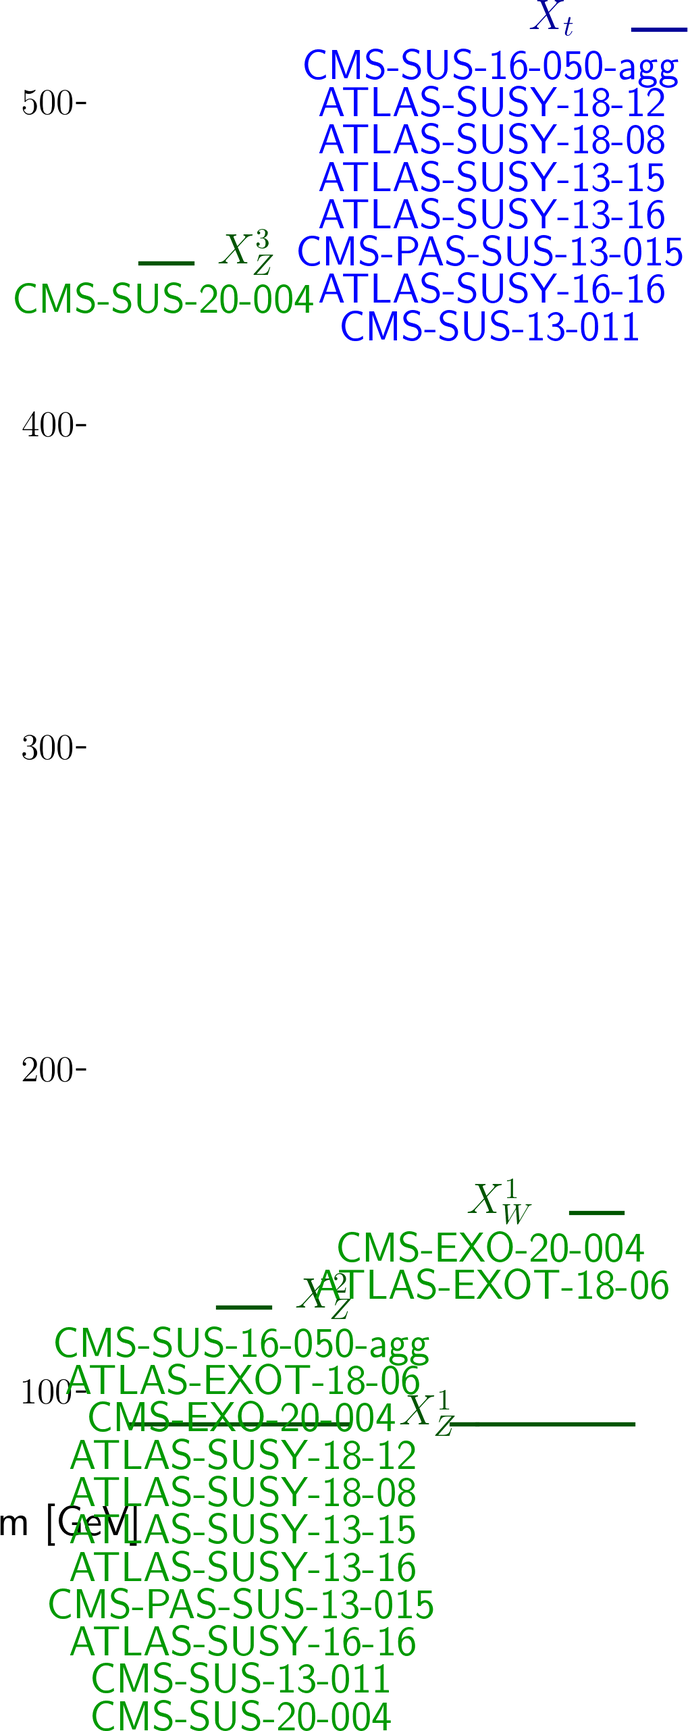
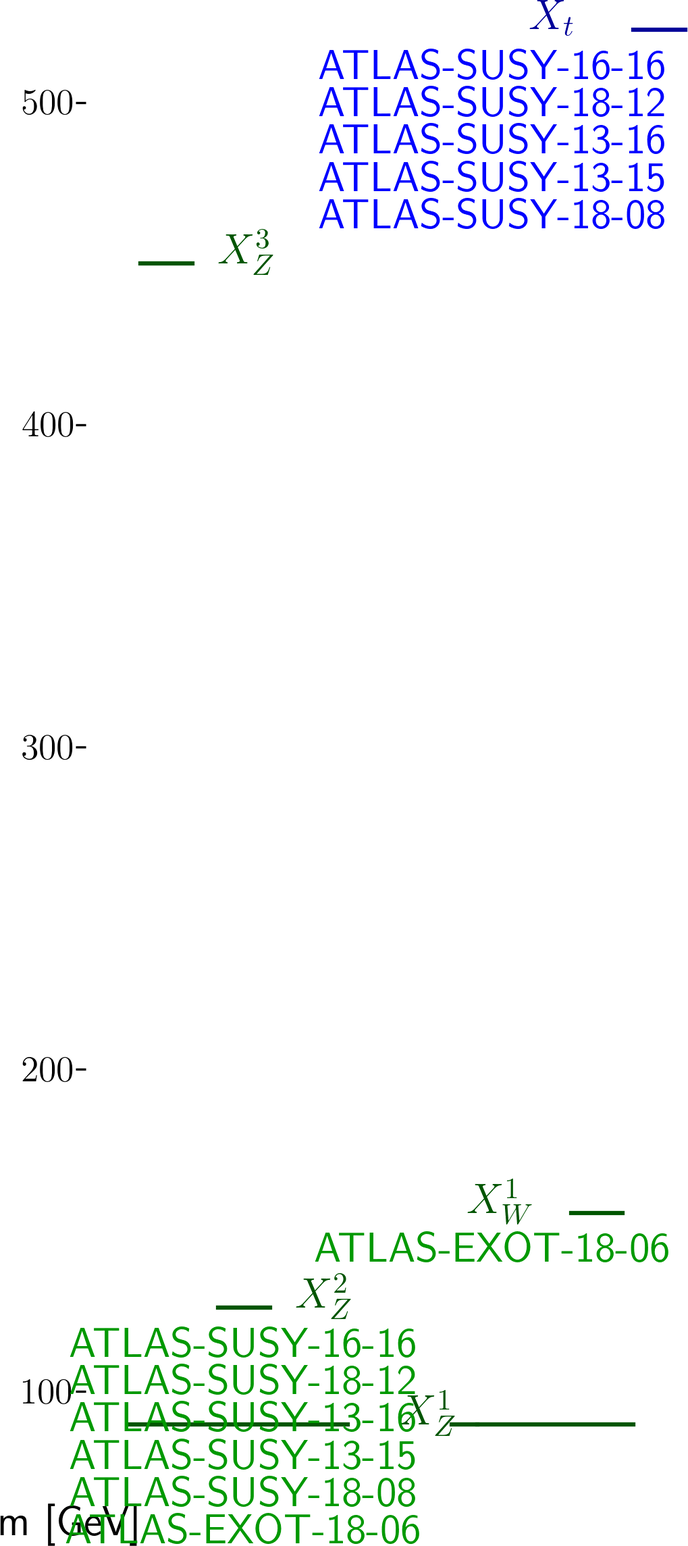
automated update by plotHiscore.py to rundir3atlas_310:     K=None TL=11.80 walkerid=uphi

diff --git a/protomodels/rundir3atlas_310/rawnumbers.html b/protomodels/rundir3atlas_310/rawnumbers.html
@@ -1,44 +1,43 @@
 <table>
 <tr><th>Analysis Name</th><th>Type</th><th>Dataset</th><th>Topos</th><th>Observed</th><th>Expected</th><th>Approx &sigma;</th><th>Particles</th>
 </tr>
-<tr><td><a href=http://cms-results.web.cern.ch/cms-results/public-results/publications/EXO-20-004/>CMS-EXO-20-004</a></td><td>comb</td> <td>-</td><td>TChiISR, TChiZISRqq</td><td> 2e+02 fb </td><td> 1e+02 fb</td><td style="text-align:right">4.6 &sigma;</td><td style="text-align:right">X<sup>1</sup><sub>W</sub>, X<sup>1</sup><sub>Z</sub>, X<sup>2</sup><sub>Z</sub></td></tr>
-<tr><td><a href=https://atlas.web.cern.ch/Atlas/GROUPS/PHYSICS/PAPERS/EXOT-2018-06/>ATLAS-EXOT-2018-06</a></td><td>em</td> <td>EM10</td><td>TChiISR, TChiZISRqq</td><td>413</td><td>359.00 +/- 10.00</td><td style="text-align:right">2.5 &sigma;</td><td style="text-align:right">X<sup>1</sup><sub>W</sub>, X<sup>1</sup><sub>Z</sub>, X<sup>2</sup><sub>Z</sub></td></tr>
+<tr><td><a href=https://atlas.web.cern.ch/Atlas/GROUPS/PHYSICS/PAPERS/EXOT-2018-06/>ATLAS-EXOT-2018-06</a></td><td>em</td> <td>EM10</td><td>TChiISR, TChiZISRqq</td><td>413</td><td>359.00 +/- 10.00</td><td style="text-align:right">2.4 &sigma;</td><td style="text-align:right">X<sup>1</sup><sub>W</sub>, X<sup>1</sup><sub>Z</sub>, X<sup>2</sup><sub>Z</sub></td></tr>
 <tr><td><a href=https://atlas.web.cern.ch/Atlas/GROUPS/PHYSICS/PAPERS/SUSY-2018-12/>ATLAS-SUSY-2018-12</a></td><td>em</td> <td>SRBTT</td><td>T2tt</td><td>67</td><td>46.00 +/- 7.00</td><td style="text-align:right">2.0 &sigma;</td><td style="text-align:right">X<sub>t</sub>, X<sup>2</sup><sub>Z</sub></td></tr>
-<tr><td><a href=http://cms-results.web.cern.ch/cms-results/public-results/publications/SUS-20-004/>CMS-SUS-20-004</a></td><td>comb</td> <td>-</td><td>TChiHH</td><td> 0.3 fb </td><td> 0.2 fb</td><td style="text-align:right">2.0 &sigma;</td><td style="text-align:right">X<sup>3</sup><sub>Z</sub>, X<sup>2</sup><sub>Z</sub></td></tr>
-<tr><td><a href=https://atlas.web.cern.ch/Atlas/GROUPS/PHYSICS/PAPERS/SUSY-2018-08/>ATLAS-SUSY-2018-08</a></td><td>em</td> <td>SRSF140</td><td>T2tt</td><td>9</td><td>5.10 +/- 0.90</td><td style="text-align:right">1.5 &sigma;</td><td style="text-align:right">X<sub>t</sub>, X<sup>2</sup><sub>Z</sub></td></tr>
 <tr><td><a href=https://atlas.web.cern.ch/Atlas/GROUPS/PHYSICS/PAPERS/SUSY-2016-16/>ATLAS-SUSY-2016-16</a></td><td>em</td> <td>tN_med</td><td>T2tt</td><td>50</td><td>36.30 +/- 6.60</td><td style="text-align:right">1.5 &sigma;</td><td style="text-align:right">X<sub>t</sub>, X<sup>2</sup><sub>Z</sub></td></tr>
+<tr><td><a href=https://atlas.web.cern.ch/Atlas/GROUPS/PHYSICS/PAPERS/SUSY-2018-08/>ATLAS-SUSY-2018-08</a></td><td>em</td> <td>SRSF140</td><td>T2tt</td><td>9</td><td>5.10 +/- 0.90</td><td style="text-align:right">1.5 &sigma;</td><td style="text-align:right">X<sub>t</sub>, X<sup>2</sup><sub>Z</sub></td></tr>
 <tr><td><a href=https://atlas.web.cern.ch/Atlas/GROUPS/PHYSICS/PAPERS/SUSY-2013-16/>ATLAS-SUSY-2013-16</a></td><td>em</td> <td>SRA4</td><td>T2tt</td><td>4</td><td>2.40 +/- 0.70</td><td style="text-align:right">0.9 &sigma;</td><td style="text-align:right">X<sub>t</sub>, X<sup>2</sup><sub>Z</sub></td></tr>
 <tr><td><a href=https://atlas.web.cern.ch/Atlas/GROUPS/PHYSICS/PAPERS/SUSY-2013-15/>ATLAS-SUSY-2013-15</a></td><td>em</td> <td>tNboost</td><td>T2tt</td><td>5</td><td>3.30 +/- 0.70</td><td style="text-align:right">0.9 &sigma;</td><td style="text-align:right">X<sub>t</sub>, X<sup>2</sup><sub>Z</sub></td></tr>
-<tr><td><a href=https://twiki.cern.ch/twiki/bin/view/CMSPublic/PhysicsResultsSUS13015>CMS-PAS-SUS-13-015</a></td><td>em</td> <td>pTmiss350_Nb2</td><td>T2tt</td><td>15</td><td>8.60 +/- 7.10</td><td style="text-align:right">0.8 &sigma;</td><td style="text-align:right">X<sub>t</sub>, X<sup>2</sup><sub>Z</sub></td></tr>
-<tr><td><a href=http://cms-results.web.cern.ch/cms-results/public-results/publications/SUS-16-050/index.html>CMS-SUS-16-050-agg</a></td><td>comb</td> <td>-</td><td>T2tt</td><td> 2 fb </td><td> 2 fb</td><td style="text-align:right">-0.2 &sigma;</td><td style="text-align:right">X<sub>t</sub>, X<sup>2</sup><sub>Z</sub></td></tr>
-<tr><td><a href=https://twiki.cern.ch/twiki/bin/view/CMSPublic/PhysicsResultsSUS13011>CMS-SUS-13-011</a></td><td>em</td> <td>LM150</td><td>T2tt</td><td>227</td><td>251.00 +/- 50.00</td><td style="text-align:right">-0.5 &sigma;</td><td style="text-align:right">X<sub>t</sub>, X<sup>2</sup><sub>Z</sub></td></tr>
 </table>
 <table style='color:grey'>
-<tr><th>Not in Best Combo</th><th>Type</th><th>Dataset</th><th>Topos</th><th>Observed</th><th>Expected</th><th>Approx &sigma;</th><th>Particles</th><tr><td><a href=https://atlas.web.cern.ch/Atlas/GROUPS/PHYSICS/PAPERS/SUSY-2015-02/>ATLAS-SUSY-2015-02</a></td><td>em</td> <td>SR1</td><td>T2tt</td><td>12</td><td>5.50 +/- 0.72</td><td style="text-align:right">2.3 &sigma;</td><td style="text-align:right">X<sub>t</sub>, X<sup>2</sup><sub>Z</sub></td></tr>
+<tr><th>Not in Best Combo</th><th>Type</th><th>Dataset</th><th>Topos</th><th>Observed</th><th>Expected</th><th>Approx &sigma;</th><th>Particles</th><tr><td><a href=http://cms-results.web.cern.ch/cms-results/public-results/publications/EXO-20-004/>CMS-EXO-20-004</a></td><td>comb</td> <td>-</td><td>TChiISR, TChiZISRqq</td><td> 2e+02 fb </td><td> 1e+02 fb</td><td style="text-align:right">4.4 &sigma;</td><td style="text-align:right">X<sup>1</sup><sub>W</sub>, X<sup>1</sup><sub>Z</sub>, X<sup>2</sup><sub>Z</sub></td></tr>
+<tr><td><a href=https://atlas.web.cern.ch/Atlas/GROUPS/PHYSICS/PAPERS/SUSY-2015-02/>ATLAS-SUSY-2015-02</a></td><td>em</td> <td>SR1</td><td>T2tt</td><td>12</td><td>5.50 +/- 0.72</td><td style="text-align:right">2.3 &sigma;</td><td style="text-align:right">X<sub>t</sub>, X<sup>2</sup><sub>Z</sub></td></tr>
+<tr><td><a href=http://cms-results.web.cern.ch/cms-results/public-results/publications/SUS-20-004/>CMS-SUS-20-004</a></td><td>comb</td> <td>-</td><td>TChiHH</td><td> 0.3 fb </td><td> 0.2 fb</td><td style="text-align:right">2.0 &sigma;</td><td style="text-align:right">X<sup>3</sup><sub>Z</sub>, X<sup>2</sup><sub>Z</sub></td></tr>
 <tr><td><a href=https://twiki.cern.ch/twiki/bin/view/CMSPublic/PhysicsResultsSUS13012>CMS-SUS-13-012</a></td><td>em</td> <td>6NJet8_500HT800 ...</td><td>T2tt, T6bbWWoff</td><td>9</td><td>0.80 +/- 3.30</td><td style="text-align:right">1.8 &sigma;</td><td style="text-align:right">X<sup>1</sup><sub>W</sub>, X<sup>1</sup><sub>Z</sub>, X<sub>t</sub>, X<sup>2</sup><sub>Z</sub></td></tr>
 <tr><td><a href=https://twiki.cern.ch/twiki/bin/view/CMSPublic/PhysicsResultsSUS13012>CMS-SUS-13-012</a></td><td>em</td> <td>3NJet6_1000HT12 ...</td><td>T2tt, T6bbWWoff</td><td>32</td><td>22.80 +/- 5.20</td><td style="text-align:right">1.3 &sigma;</td><td style="text-align:right">X<sup>1</sup><sub>W</sub>, X<sup>1</sup><sub>Z</sub>, X<sub>t</sub>, X<sup>2</sup><sub>Z</sub></td></tr>
 <tr><td><a href=https://atlas.web.cern.ch/Atlas/GROUPS/PHYSICS/PAPERS/SUSY-2013-04/>ATLAS-SUSY-2013-04</a></td><td>em</td> <td>GtGrid_SR_10ij5 ...</td><td>T2tt</td><td>3</td><td>1.37 +/- 0.35</td><td style="text-align:right">1.2 &sigma;</td><td style="text-align:right">X<sub>t</sub>, X<sup>2</sup><sub>Z</sub></td></tr>
-<tr><td><a href=https://twiki.cern.ch/twiki/bin/view/CMSPublic/PhysicsResultsSUS13012>CMS-SUS-13-012</a></td><td>em</td> <td>3NJet6_1500HTin ...</td><td>T2tt, T6bbWWoff</td><td>39</td><td>29.70 +/- 5.80</td><td style="text-align:right">1.1 &sigma;</td><td style="text-align:right">X<sup>1</sup><sub>W</sub>, X<sup>1</sup><sub>Z</sub>, X<sub>t</sub>, X<sup>2</sup><sub>Z</sub></td></tr>
+<tr><td><a href=https://twiki.cern.ch/twiki/bin/view/CMSPublic/PhysicsResultsSUS13012>CMS-SUS-13-012</a></td><td>em</td> <td>3NJet6_1500HTin ...</td><td>T2tt, T6bbWWoff</td><td>39</td><td>29.70 +/- 5.80</td><td style="text-align:right">1.2 &sigma;</td><td style="text-align:right">X<sup>1</sup><sub>W</sub>, X<sup>1</sup><sub>Z</sub>, X<sub>t</sub>, X<sup>2</sup><sub>Z</sub></td></tr>
 <tr><td><a href=https://twiki.cern.ch/twiki/bin/view/CMSPublic/PhysicsResultsSUS13012>CMS-SUS-13-012</a></td><td>em</td> <td>8NJetinf_500HT8 ...</td><td>T2tt, T6bbWWoff</td><td>8</td><td>4.80 +/- 2.30</td><td style="text-align:right">1.0 &sigma;</td><td style="text-align:right">X<sup>1</sup><sub>W</sub>, X<sup>1</sup><sub>Z</sub>, X<sub>t</sub>, X<sup>2</sup><sub>Z</sub></td></tr>
 <tr><td><a href=https://twiki.cern.ch/twiki/bin/view/CMSPublic/PhysicsResultsSUS13012>CMS-SUS-13-012</a></td><td>em</td> <td>3NJet6_1250HT15 ...</td><td>T2tt, T6bbWWoff</td><td>23</td><td>17.60 +/- 4.10</td><td style="text-align:right">0.9 &sigma;</td><td style="text-align:right">X<sup>1</sup><sub>W</sub>, X<sup>1</sup><sub>Z</sub>, X<sub>t</sub>, X<sup>2</sup><sub>Z</sub></td></tr>
 <tr><td><a href=https://atlas.web.cern.ch/Atlas/GROUPS/PHYSICS/PAPERS/SUSY-2013-04/>ATLAS-SUSY-2013-04</a></td><td>em</td> <td>GtGrid_SR_8ij80 ...</td><td>T2tt</td><td>2</td><td>0.90 +/- 0.60</td><td style="text-align:right">0.9 &sigma;</td><td style="text-align:right">X<sub>t</sub>, X<sup>2</sup><sub>Z</sub></td></tr>
-<tr><td><a href=https://twiki.cern.ch/twiki/bin/view/CMSPublic/PhysicsResultsSUS13012>CMS-SUS-13-012</a></td><td>em</td> <td>3NJet6_800HT100 ...</td><td>T2tt, T6bbWWoff</td><td>124</td><td>108.00 +/- 15.00</td><td style="text-align:right">0.9 &sigma;</td><td style="text-align:right">X<sup>1</sup><sub>W</sub>, X<sup>1</sup><sub>Z</sub>, X<sub>t</sub>, X<sup>2</sup><sub>Z</sub></td></tr>
 <tr><td><a href=https://atlas.web.cern.ch/Atlas/GROUPS/PHYSICS/PAPERS/SUSY-2013-04/>ATLAS-SUSY-2013-04</a></td><td>em</td> <td>GtGrid_SR_9ej50 ...</td><td>T2tt</td><td>5</td><td>3.30 +/- 0.70</td><td style="text-align:right">0.9 &sigma;</td><td style="text-align:right">X<sub>t</sub>, X<sup>2</sup><sub>Z</sub></td></tr>
-<tr><td><a href=https://twiki.cern.ch/twiki/bin/view/CMSPublic/PhysicsResultsSUS13012>CMS-SUS-13-012</a></td><td>em</td> <td>8NJetinf_1000HT ...</td><td>T2tt, T6bbWWoff</td><td>8</td><td>5.60 +/- 2.30</td><td style="text-align:right">0.8 &sigma;</td><td style="text-align:right">X<sup>1</sup><sub>W</sub>, X<sup>1</sup><sub>Z</sub>, X<sub>t</sub>, X<sup>2</sup><sub>Z</sub></td></tr>
+<tr><td><a href=https://twiki.cern.ch/twiki/bin/view/CMSPublic/PhysicsResultsSUS13012>CMS-SUS-13-012</a></td><td>em</td> <td>3NJet6_800HT100 ...</td><td>T2tt, T6bbWWoff</td><td>124</td><td>108.00 +/- 15.00</td><td style="text-align:right">0.9 &sigma;</td><td style="text-align:right">X<sup>1</sup><sub>W</sub>, X<sup>1</sup><sub>Z</sub>, X<sub>t</sub>, X<sup>2</sup><sub>Z</sub></td></tr>
+<tr><td><a href=https://twiki.cern.ch/twiki/bin/view/CMSPublic/PhysicsResultsSUS13012>CMS-SUS-13-012</a></td><td>em</td> <td>8NJetinf_1000HT ...</td><td>T2tt, T6bbWWoff</td><td>8</td><td>5.60 +/- 2.30</td><td style="text-align:right">0.7 &sigma;</td><td style="text-align:right">X<sup>1</sup><sub>W</sub>, X<sup>1</sup><sub>Z</sub>, X<sub>t</sub>, X<sup>2</sup><sub>Z</sub></td></tr>
+<tr><td><a href=https://twiki.cern.ch/twiki/bin/view/CMSPublic/PhysicsResultsSUS13015>CMS-PAS-SUS-13-015</a></td><td>em</td> <td>pTmiss350_Nb2</td><td>T2tt</td><td>15</td><td>8.60 +/- 7.10</td><td style="text-align:right">0.8 &sigma;</td><td style="text-align:right">X<sub>t</sub>, X<sup>2</sup><sub>Z</sub></td></tr>
 <tr><td><a href=https://twiki.cern.ch/twiki/bin/view/CMSPublic/PhysicsResultsSUS13012>CMS-SUS-13-012</a></td><td>em</td> <td>6NJet8_800HT100 ...</td><td>T2tt, T6bbWWoff</td><td>35</td><td>28.60 +/- 6.90</td><td style="text-align:right">0.8 &sigma;</td><td style="text-align:right">X<sup>1</sup><sub>W</sub>, X<sup>1</sup><sub>Z</sub>, X<sub>t</sub>, X<sup>2</sup><sub>Z</sub></td></tr>
 <tr><td><a href=https://twiki.cern.ch/twiki/bin/view/CMSPublic/PhysicsResultsSUS13012>CMS-SUS-13-012</a></td><td>em</td> <td>6NJet8_500HT800 ...</td><td>T2tt, T6bbWWoff</td><td>62</td><td>52.00 +/- 12.00</td><td style="text-align:right">0.7 &sigma;</td><td style="text-align:right">X<sup>1</sup><sub>W</sub>, X<sup>1</sup><sub>Z</sub>, X<sub>t</sub>, X<sup>2</sup><sub>Z</sub></td></tr>
 <tr><td><a href=https://atlas.web.cern.ch/Atlas/GROUPS/PHYSICS/PAPERS/SUSY-2013-04/>ATLAS-SUSY-2013-04</a></td><td>em</td> <td>GtGrid_SR_8ej50 ...</td><td>T2tt</td><td>40</td><td>35.00 +/- 4.00</td><td style="text-align:right">0.7 &sigma;</td><td style="text-align:right">X<sub>t</sub>, X<sup>2</sup><sub>Z</sub></td></tr>
 <tr><td><a href=https://atlas.web.cern.ch/Atlas/GROUPS/PHYSICS/PAPERS/SUSY-2013-04/>ATLAS-SUSY-2013-04</a></td><td>em</td> <td>GtGrid_SR_9ej50 ...</td><td>T2tt</td><td>8</td><td>6.10 +/- 1.70</td><td style="text-align:right">0.7 &sigma;</td><td style="text-align:right">X<sub>t</sub>, X<sup>2</sup><sub>Z</sub></td></tr>
 <tr><td><a href=https://twiki.cern.ch/twiki/bin/view/CMSPublic/PhysicsResultsSUS13012>CMS-SUS-13-012</a></td><td>em</td> <td>3NJet6_1000HT12 ...</td><td>T2tt, T6bbWWoff</td><td>335</td><td>305.00 +/- 41.00</td><td style="text-align:right">0.7 &sigma;</td><td style="text-align:right">X<sup>1</sup><sub>W</sub>, X<sup>1</sup><sub>Z</sub>, X<sub>t</sub>, X<sup>2</sup><sub>Z</sub></td></tr>
-<tr><td><a href=http://cms-results.web.cern.ch/cms-results/public-results/publications/SUS-16-033/index.html>CMS-SUS-16-033</a></td><td>em</td> <td>SR6_Njet2_Nb2_H ...</td><td>T2tt</td><td>216</td><td>196.00 +/- 28.00</td><td style="text-align:right">0.7 &sigma;</td><td style="text-align:right">X<sub>t</sub>, X<sup>2</sup><sub>Z</sub></td></tr>
+<tr><td><a href=http://cms-results.web.cern.ch/cms-results/public-results/publications/SUS-16-033/index.html>CMS-SUS-16-033</a></td><td>em</td> <td>SR6_Njet2_Nb2_H ...</td><td>T2tt</td><td>216</td><td>196.00 +/- 28.00</td><td style="text-align:right">0.6 &sigma;</td><td style="text-align:right">X<sub>t</sub>, X<sup>2</sup><sub>Z</sub></td></tr>
 <tr><td><a href=http://cms-results.web.cern.ch/cms-results/public-results/publications/SUS-16-033/index.html>CMS-SUS-16-033</a></td><td>em</td> <td>SR1_Njet2_Nb0_H ...</td><td>T2tt</td><td>7838</td><td>7584.00 +/- 433.00</td><td style="text-align:right">0.6 &sigma;</td><td style="text-align:right">X<sub>t</sub>, X<sup>2</sup><sub>Z</sub></td></tr>
 <tr><td><a href=https://twiki.cern.ch/twiki/bin/view/CMSPublic/PhysicsResultsSUS13012>CMS-SUS-13-012</a></td><td>em</td> <td>3NJet6_500HT800 ...</td><td>T2tt, T6bbWWoff</td><td>454</td><td>418.00 +/- 66.00</td><td style="text-align:right">0.5 &sigma;</td><td style="text-align:right">X<sup>1</sup><sub>W</sub>, X<sup>1</sup><sub>Z</sub>, X<sub>t</sub>, X<sup>2</sup><sub>Z</sub></td></tr>
 <tr><td><a href=http://cms-results.web.cern.ch/cms-results/public-results/publications/SUS-16-033/index.html>CMS-SUS-16-033</a></td><td>em</td> <td>SR12_Njet5_Nb1_ ...</td><td>T2tt</td><td>48</td><td>42.20 +/- 9.70</td><td style="text-align:right">0.5 &sigma;</td><td style="text-align:right">X<sub>t</sub>, X<sup>2</sup><sub>Z</sub></td></tr>
 <tr><td><a href=http://cms-results.web.cern.ch/cms-results/public-results/publications/SUS-16-033/index.html>CMS-SUS-16-033</a></td><td>em</td> <td>SR7_Njet3_Nb1_H ...</td><td>T2tt</td><td>123</td><td>113.00 +/- 18.00</td><td style="text-align:right">0.5 &sigma;</td><td style="text-align:right">X<sub>t</sub>, X<sup>2</sup><sub>Z</sub></td></tr>
 <tr><td><a href=https://twiki.cern.ch/twiki/bin/view/CMSPublic/PhysicsResultsSUS13012>CMS-SUS-13-012</a></td><td>em</td> <td>3NJet6_1500HTin ...</td><td>T2tt, T6bbWWoff</td><td>94</td><td>86.00 +/- 17.00</td><td style="text-align:right">0.4 &sigma;</td><td style="text-align:right">X<sup>1</sup><sub>W</sub>, X<sup>1</sup><sub>Z</sub>, X<sub>t</sub>, X<sup>2</sup><sub>Z</sub></td></tr>
+<tr><td><a href=https://twiki.cern.ch/twiki/bin/view/CMSPublic/PhysicsResultsSUS13015>CMS-PAS-SUS-13-015</a></td><td>em</td> <td>pTmiss350_Nb1</td><td>T2tt</td><td>45</td><td>40.90 +/- 9.60</td><td style="text-align:right">0.4 &sigma;</td><td style="text-align:right">X<sub>t</sub>, X<sup>2</sup><sub>Z</sub></td></tr>
 <tr><td><a href=http://cms-results.web.cern.ch/cms-results/public-results/publications/SUS-16-033/index.html>CMS-SUS-16-033</a></td><td>em</td> <td>SR9_NJet5_Nb2_H ...</td><td>T2tt</td><td>6</td><td>4.40 +/- 3.40</td><td style="text-align:right">0.4 &sigma;</td><td style="text-align:right">X<sub>t</sub>, X<sup>2</sup><sub>Z</sub></td></tr>
-<tr><td><a href=https://twiki.cern.ch/twiki/bin/view/CMSPublic/PhysicsResultsSUS13012>CMS-SUS-13-012</a></td><td>em</td> <td>3NJet6_500HT800 ...</td><td>T2tt, T6bbWWoff</td><td>62</td><td>57.40 +/- 11.20</td><td style="text-align:right">0.4 &sigma;</td><td style="text-align:right">X<sup>1</sup><sub>W</sub>, X<sup>1</sup><sub>Z</sub>, X<sub>t</sub>, X<sup>2</sup><sub>Z</sub></td></tr>
 <tr><td><a href=https://atlas.web.cern.ch/Atlas/GROUPS/PHYSICS/PAPERS/SUSY-2013-04/>ATLAS-SUSY-2013-04</a></td><td>em</td> <td>GtGrid_SR_8ej50 ...</td><td>T2tt</td><td>44</td><td>40.00 +/- 10.00</td><td style="text-align:right">0.4 &sigma;</td><td style="text-align:right">X<sub>t</sub>, X<sup>2</sup><sub>Z</sub></td></tr>
+<tr><td><a href=https://twiki.cern.ch/twiki/bin/view/CMSPublic/PhysicsResultsSUS13012>CMS-SUS-13-012</a></td><td>em</td> <td>3NJet6_500HT800 ...</td><td>T2tt, T6bbWWoff</td><td>62</td><td>57.40 +/- 11.20</td><td style="text-align:right">0.4 &sigma;</td><td style="text-align:right">X<sup>1</sup><sub>W</sub>, X<sup>1</sup><sub>Z</sub>, X<sub>t</sub>, X<sup>2</sup><sub>Z</sub></td></tr>
 <tr><td><a href=https://atlas.web.cern.ch/Atlas/GROUPS/PHYSICS/PAPERS/SUSY-2013-04/>ATLAS-SUSY-2013-04</a></td><td>em</td> <td>GtGrid_SR_7ej80 ...</td><td>T2tt</td><td>12</td><td>11.00 +/- 2.20</td><td style="text-align:right">0.3 &sigma;</td><td style="text-align:right">X<sub>t</sub>, X<sup>2</sup><sub>Z</sub></td></tr>
 <tr><td><a href=https://twiki.cern.ch/twiki/bin/view/CMSPublic/PhysicsResultsSUS13012>CMS-SUS-13-012</a></td><td>em</td> <td>3NJet6_800HT100 ...</td><td>T2tt, T6bbWWoff</td><td>808</td><td>777.00 +/- 107.00</td><td style="text-align:right">0.3 &sigma;</td><td style="text-align:right">X<sup>1</sup><sub>W</sub>, X<sup>1</sup><sub>Z</sub>, X<sub>t</sub>, X<sup>2</sup><sub>Z</sub></td></tr>
 <tr><td><a href=https://twiki.cern.ch/twiki/bin/view/CMSPublic/PhysicsResultsSUS13012>CMS-SUS-13-012</a></td><td>em</td> <td>3NJet6_1000HT12 ...</td><td>T2tt, T6bbWWoff</td><td>34</td><td>32.30 +/- 6.10</td><td style="text-align:right">0.2 &sigma;</td><td style="text-align:right">X<sup>1</sup><sub>W</sub>, X<sup>1</sup><sub>Z</sub>, X<sub>t</sub>, X<sup>2</sup><sub>Z</sub></td></tr>
@@ -46,17 +45,19 @@
 <tr><td><a href=http://cms-results.web.cern.ch/cms-results/public-results/publications/SUS-16-033/index.html>CMS-SUS-16-033</a></td><td>em</td> <td>SR3_Njet5_Nb0_H ...</td><td>T2tt</td><td>819</td><td>806.00 +/- 57.00</td><td style="text-align:right">0.2 &sigma;</td><td style="text-align:right">X<sub>t</sub>, X<sup>2</sup><sub>Z</sub></td></tr>
 <tr><td><a href=https://twiki.cern.ch/twiki/bin/view/CMSPublic/PhysicsResultsSUS13012>CMS-SUS-13-012</a></td><td>em</td> <td>6NJet8_1000HT12 ...</td><td>T2tt, T6bbWWoff</td><td>4</td><td>2.20 +/- 3.80</td><td style="text-align:right">0.2 &sigma;</td><td style="text-align:right">X<sup>1</sup><sub>W</sub>, X<sup>1</sup><sub>Z</sub>, X<sub>t</sub>, X<sup>2</sup><sub>Z</sub></td></tr>
 <tr><td><a href=https://twiki.cern.ch/twiki/bin/view/CMSPublic/PhysicsResultsSUS13012>CMS-SUS-13-012</a></td><td>em</td> <td>6NJet8_1250HT15 ...</td><td>T2tt, T6bbWWoff</td><td>2</td><td>0.50 +/- 2.60</td><td style="text-align:right">0.1 &sigma;</td><td style="text-align:right">X<sup>1</sup><sub>W</sub>, X<sup>1</sup><sub>Z</sub>, X<sub>t</sub>, X<sup>2</sup><sub>Z</sub></td></tr>
-<tr><td><a href=https://twiki.cern.ch/twiki/bin/view/CMSPublic/PhysicsResultsSUS13012>CMS-SUS-13-012</a></td><td>em</td> <td>3NJet6_500HT800 ...</td><td>T2tt, T6bbWWoff</td><td>2305</td><td>2278.00 +/- 266.00</td><td style="text-align:right">0.1 &sigma;</td><td style="text-align:right">X<sup>1</sup><sub>W</sub>, X<sup>1</sup><sub>Z</sub>, X<sub>t</sub>, X<sup>2</sup><sub>Z</sub></td></tr>
 <tr><td><a href=https://twiki.cern.ch/twiki/bin/view/CMSPublic/PhysicsResultsSUS13012>CMS-SUS-13-012</a></td><td>em</td> <td>3NJet6_500HT800 ...</td><td>T2tt, T6bbWWoff</td><td>6159</td><td>6088.00 +/- 665.00</td><td style="text-align:right">0.1 &sigma;</td><td style="text-align:right">X<sup>1</sup><sub>W</sub>, X<sup>1</sup><sub>Z</sub>, X<sub>t</sub>, X<sup>2</sup><sub>Z</sub></td></tr>
 <tr><td><a href=https://atlas.web.cern.ch/Atlas/GROUPS/PHYSICS/PAPERS/SUSY-2015-02/>ATLAS-SUSY-2015-02</a></td><td>em</td> <td>SR3</td><td>T2tt</td><td>1</td><td>1.03 +/- 0.18</td><td style="text-align:right">0.1 &sigma;</td><td style="text-align:right">X<sub>t</sub>, X<sup>2</sup><sub>Z</sub></td></tr>
-<tr><td><a href=https://atlas.web.cern.ch/Atlas/GROUPS/PHYSICS/PAPERS/SUSY-2013-04/>ATLAS-SUSY-2013-04</a></td><td>em</td> <td>GtGrid_SR_7ej80 ...</td><td>T2tt</td><td>17</td><td>17.00 +/- 6.00</td><td style="text-align:right">0.1 &sigma;</td><td style="text-align:right">X<sub>t</sub>, X<sup>2</sup><sub>Z</sub></td></tr>
-<tr><td><a href=https://atlas.web.cern.ch/Atlas/GROUPS/PHYSICS/PAPERS/SUSY-2013-04/>ATLAS-SUSY-2013-04</a></td><td>em</td> <td>GtGrid_SR_8ij80 ...</td><td>T2tt</td><td>3</td><td>3.30 +/- 2.20</td><td style="text-align:right">-0.1 &sigma;</td><td style="text-align:right">X<sub>t</sub>, X<sup>2</sup><sub>Z</sub></td></tr>
+<tr><td><a href=https://twiki.cern.ch/twiki/bin/view/CMSPublic/PhysicsResultsSUS13012>CMS-SUS-13-012</a></td><td>em</td> <td>3NJet6_500HT800 ...</td><td>T2tt, T6bbWWoff</td><td>2305</td><td>2278.00 +/- 266.00</td><td style="text-align:right">0.1 &sigma;</td><td style="text-align:right">X<sup>1</sup><sub>W</sub>, X<sup>1</sup><sub>Z</sub>, X<sub>t</sub>, X<sup>2</sup><sub>Z</sub></td></tr>
+<tr><td><a href=https://atlas.web.cern.ch/Atlas/GROUPS/PHYSICS/PAPERS/SUSY-2013-04/>ATLAS-SUSY-2013-04</a></td><td>em</td> <td>GtGrid_SR_7ej80 ...</td><td>T2tt</td><td>17</td><td>17.00 +/- 6.00</td><td style="text-align:right">0.0 &sigma;</td><td style="text-align:right">X<sub>t</sub>, X<sup>2</sup><sub>Z</sub></td></tr>
+<tr><td><a href=https://twiki.cern.ch/twiki/bin/view/CMSPublic/PhysicsResultsSUS13015>CMS-PAS-SUS-13-015</a></td><td>em</td> <td>pTmiss200_Nb1</td><td>T2tt</td><td>254</td><td>254.30 +/- 35.00</td><td style="text-align:right">0.0 &sigma;</td><td style="text-align:right">X<sub>t</sub>, X<sup>2</sup><sub>Z</sub></td></tr>
 <tr><td><a href=https://atlas.web.cern.ch/Atlas/GROUPS/PHYSICS/PAPERS/SUSY-2015-02/>ATLAS-SUSY-2015-02</a></td><td>em</td> <td>SR2</td><td>T2tt</td><td>1</td><td>1.25 +/- 0.26</td><td style="text-align:right">-0.1 &sigma;</td><td style="text-align:right">X<sub>t</sub>, X<sup>2</sup><sub>Z</sub></td></tr>
+<tr><td><a href=https://atlas.web.cern.ch/Atlas/GROUPS/PHYSICS/PAPERS/SUSY-2013-04/>ATLAS-SUSY-2013-04</a></td><td>em</td> <td>GtGrid_SR_8ij80 ...</td><td>T2tt</td><td>3</td><td>3.30 +/- 2.20</td><td style="text-align:right">-0.1 &sigma;</td><td style="text-align:right">X<sub>t</sub>, X<sup>2</sup><sub>Z</sub></td></tr>
 <tr><td><a href=https://twiki.cern.ch/twiki/bin/view/CMSPublic/PhysicsResultsSUS13012>CMS-SUS-13-012</a></td><td>em</td> <td>6NJet8_1000HT12 ...</td><td>T2tt, T6bbWWoff</td><td>67</td><td>70.00 +/- 16.00</td><td style="text-align:right">-0.1 &sigma;</td><td style="text-align:right">X<sup>1</sup><sub>W</sub>, X<sup>1</sup><sub>Z</sub>, X<sub>t</sub>, X<sup>2</sup><sub>Z</sub></td></tr>
 <tr><td><a href=https://twiki.cern.ch/twiki/bin/view/CMSPublic/PhysicsResultsSUS13012>CMS-SUS-13-012</a></td><td>em</td> <td>6NJet8_1000HT12 ...</td><td>T2tt, T6bbWWoff</td><td>20</td><td>21.60 +/- 5.80</td><td style="text-align:right">-0.2 &sigma;</td><td style="text-align:right">X<sup>1</sup><sub>W</sub>, X<sup>1</sup><sub>Z</sub>, X<sub>t</sub>, X<sup>2</sup><sub>Z</sub></td></tr>
 <tr><td><a href=https://atlas.web.cern.ch/Atlas/GROUPS/PHYSICS/PAPERS/SUSY-2013-04/>ATLAS-SUSY-2013-04</a></td><td>em</td> <td>GtGrid_SR_9ej50 ...</td><td>T2tt</td><td>7</td><td>8.00 +/- 2.70</td><td style="text-align:right">-0.2 &sigma;</td><td style="text-align:right">X<sub>t</sub>, X<sup>2</sup><sub>Z</sub></td></tr>
 <tr><td><a href=https://twiki.cern.ch/twiki/bin/view/CMSPublic/PhysicsResultsSUS13012>CMS-SUS-13-012</a></td><td>em</td> <td>3NJet6_800HT100 ...</td><td>T2tt, T6bbWWoff</td><td>52</td><td>54.80 +/- 9.70</td><td style="text-align:right">-0.2 &sigma;</td><td style="text-align:right">X<sup>1</sup><sub>W</sub>, X<sup>1</sup><sub>Z</sub>, X<sub>t</sub>, X<sup>2</sup><sub>Z</sub></td></tr>
 <tr><td><a href=https://atlas.web.cern.ch/Atlas/GROUPS/PHYSICS/PAPERS/SUSY-2013-04/>ATLAS-SUSY-2013-04</a></td><td>em</td> <td>GtGrid_SR_8ij80 ...</td><td>T2tt</td><td>1</td><td>1.50 +/- 0.90</td><td style="text-align:right">-0.2 &sigma;</td><td style="text-align:right">X<sub>t</sub>, X<sup>2</sup><sub>Z</sub></td></tr>
+<tr><td><a href=https://twiki.cern.ch/twiki/bin/view/CMSPublic/PhysicsResultsSUS13015>CMS-PAS-SUS-13-015</a></td><td>em</td> <td>pTmiss200_Nb2</td><td>T2tt</td><td>83</td><td>88.40 +/- 19.80</td><td style="text-align:right">-0.2 &sigma;</td><td style="text-align:right">X<sub>t</sub>, X<sup>2</sup><sub>Z</sub></td></tr>
 <tr><td><a href=http://cms-results.web.cern.ch/cms-results/public-results/publications/SUS-16-033/index.html>CMS-SUS-16-033</a></td><td>em</td> <td>SR8_Njet5_Nb3_H ...</td><td>T2tt</td><td>17</td><td>19.50 +/- 8.40</td><td style="text-align:right">-0.2 &sigma;</td><td style="text-align:right">X<sub>t</sub>, X<sup>2</sup><sub>Z</sub></td></tr>
 <tr><td><a href=https://twiki.cern.ch/twiki/bin/view/CMSPublic/PhysicsResultsSUS13012>CMS-SUS-13-012</a></td><td>em</td> <td>6NJet8_1500HTin ...</td><td>T2tt, T6bbWWoff</td><td>18</td><td>21.10 +/- 8.10</td><td style="text-align:right">-0.3 &sigma;</td><td style="text-align:right">X<sup>1</sup><sub>W</sub>, X<sup>1</sup><sub>Z</sub>, X<sub>t</sub>, X<sup>2</sup><sub>Z</sub></td></tr>
 <tr><td><a href=https://twiki.cern.ch/twiki/bin/view/CMSPublic/PhysicsResultsSUS13012>CMS-SUS-13-012</a></td><td>em</td> <td>3NJet6_1000HT12 ...</td><td>T2tt, T6bbWWoff</td><td>129</td><td>137.00 +/- 20.00</td><td style="text-align:right">-0.3 &sigma;</td><td style="text-align:right">X<sup>1</sup><sub>W</sub>, X<sup>1</sup><sub>Z</sub>, X<sub>t</sub>, X<sup>2</sup><sub>Z</sub></td></tr>
@@ -65,14 +66,23 @@
 <tr><td><a href=https://twiki.cern.ch/twiki/bin/view/CMSPublic/PhysicsResultsSUS13012>CMS-SUS-13-012</a></td><td>em</td> <td>3NJet6_1250HT15 ...</td><td>T2tt, T6bbWWoff</td><td>38</td><td>42.80 +/- 9.50</td><td style="text-align:right">-0.4 &sigma;</td><td style="text-align:right">X<sup>1</sup><sub>W</sub>, X<sup>1</sup><sub>Z</sub>, X<sub>t</sub>, X<sup>2</sup><sub>Z</sub></td></tr>
 <tr><td><a href=https://twiki.cern.ch/twiki/bin/view/CMSPublic/PhysicsResultsSUS13012>CMS-SUS-13-012</a></td><td>em</td> <td>6NJet8_800HT100 ...</td><td>T2tt, T6bbWWoff</td><td>111</td><td>124.00 +/- 29.00</td><td style="text-align:right">-0.4 &sigma;</td><td style="text-align:right">X<sup>1</sup><sub>W</sub>, X<sup>1</sup><sub>Z</sub>, X<sub>t</sub>, X<sup>2</sup><sub>Z</sub></td></tr>
 <tr><td><a href=https://twiki.cern.ch/twiki/bin/view/CMSPublic/PhysicsResultsSUS13012>CMS-SUS-13-012</a></td><td>em</td> <td>8NJetinf_1250HT ...</td><td>T2tt, T6bbWWoff</td><td>5</td><td>7.10 +/- 3.80</td><td style="text-align:right">-0.4 &sigma;</td><td style="text-align:right">X<sup>1</sup><sub>W</sub>, X<sup>1</sup><sub>Z</sub>, X<sub>t</sub>, X<sup>2</sup><sub>Z</sub></td></tr>
+<tr><td><a href=https://twiki.cern.ch/twiki/bin/view/CMSPublic/PhysicsResultsSUS13011>CMS-SUS-13-011</a></td><td>em</td> <td>LM150</td><td>T2tt</td><td>227</td><td>251.00 +/- 50.00</td><td style="text-align:right">-0.5 &sigma;</td><td style="text-align:right">X<sub>t</sub>, X<sup>2</sup><sub>Z</sub></td></tr>
+<tr><td><a href=https://twiki.cern.ch/twiki/bin/view/CMSPublic/PhysicsResultsSUS13011>CMS-SUS-13-011</a></td><td>em</td> <td>LM300</td><td>T2tt</td><td>9</td><td>11.50 +/- 3.60</td><td style="text-align:right">-0.5 &sigma;</td><td style="text-align:right">X<sub>t</sub>, X<sup>2</sup><sub>Z</sub></td></tr>
 <tr><td><a href=https://atlas.web.cern.ch/Atlas/GROUPS/PHYSICS/PAPERS/SUSY-2013-04/>ATLAS-SUSY-2013-04</a></td><td>em</td> <td>GtGrid_SR_8ej50 ...</td><td>T2tt</td><td>44</td><td>50.00 +/- 10.00</td><td style="text-align:right">-0.5 &sigma;</td><td style="text-align:right">X<sub>t</sub>, X<sup>2</sup><sub>Z</sub></td></tr>
 <tr><td><a href=https://twiki.cern.ch/twiki/bin/view/CMSPublic/PhysicsResultsSUS13012>CMS-SUS-13-012</a></td><td>em</td> <td>6NJet8_800HT100 ...</td><td>T2tt, T6bbWWoff</td><td>4</td><td>6.00 +/- 2.80</td><td style="text-align:right">-0.5 &sigma;</td><td style="text-align:right">X<sup>1</sup><sub>W</sub>, X<sup>1</sup><sub>Z</sub>, X<sub>t</sub>, X<sup>2</sup><sub>Z</sub></td></tr>
 <tr><td><a href=https://twiki.cern.ch/twiki/bin/view/CMSPublic/PhysicsResultsSUS13012>CMS-SUS-13-012</a></td><td>em</td> <td>3NJet6_1250HT15 ...</td><td>T2tt, T6bbWWoff</td><td>98</td><td>109.00 +/- 18.00</td><td style="text-align:right">-0.5 &sigma;</td><td style="text-align:right">X<sup>1</sup><sub>W</sub>, X<sup>1</sup><sub>Z</sub>, X<sub>t</sub>, X<sup>2</sup><sub>Z</sub></td></tr>
 <tr><td><a href=https://twiki.cern.ch/twiki/bin/view/CMSPublic/PhysicsResultsSUS13012>CMS-SUS-13-012</a></td><td>em</td> <td>3NJet6_800HT100 ...</td><td>T2tt, T6bbWWoff</td><td>305</td><td>330.00 +/- 40.00</td><td style="text-align:right">-0.6 &sigma;</td><td style="text-align:right">X<sup>1</sup><sub>W</sub>, X<sup>1</sup><sub>Z</sub>, X<sub>t</sub>, X<sup>2</sup><sub>Z</sub></td></tr>
+<tr><td><a href=https://twiki.cern.ch/twiki/bin/view/CMSPublic/PhysicsResultsSUS13011>CMS-SUS-13-011</a></td><td>em</td> <td>LM200</td><td>T2tt</td><td>69</td><td>83.00 +/- 21.00</td><td style="text-align:right">-0.6 &sigma;</td><td style="text-align:right">X<sub>t</sub>, X<sup>2</sup><sub>Z</sub></td></tr>
+<tr><td><a href=http://cms-results.web.cern.ch/cms-results/public-results/publications/SUS-16-050/index.html>CMS-SUS-16-050-agg</a></td><td>comb</td> <td>-</td><td>T2tt</td><td> 2 fb </td><td> 2 fb</td><td style="text-align:right">-0.6 &sigma;</td><td style="text-align:right">X<sub>t</sub>, X<sup>2</sup><sub>Z</sub></td></tr>
+<tr><td><a href=https://twiki.cern.ch/twiki/bin/view/CMSPublic/PhysicsResultsSUS13011>CMS-SUS-13-011</a></td><td>em</td> <td>HM150</td><td>T2tt</td><td>23</td><td>29.00 +/- 7.00</td><td style="text-align:right">-0.7 &sigma;</td><td style="text-align:right">X<sub>t</sub>, X<sup>2</sup><sub>Z</sub></td></tr>
 <tr><td><a href=https://twiki.cern.ch/twiki/bin/view/CMSPublic/PhysicsResultsSUS13012>CMS-SUS-13-012</a></td><td>em</td> <td>8NJetinf_1500HT ...</td><td>T2tt, T6bbWWoff</td><td>2</td><td>3.30 +/- 4.70</td><td style="text-align:right">-0.7 &sigma;</td><td style="text-align:right">X<sup>1</sup><sub>W</sub>, X<sup>1</sup><sub>Z</sub>, X<sub>t</sub>, X<sup>2</sup><sub>Z</sub></td></tr>
-<tr><td><a href=https://twiki.cern.ch/twiki/bin/view/CMSPublic/PhysicsResultsSUS13012>CMS-SUS-13-012</a></td><td>em</td> <td>6NJet8_1250HT15 ...</td><td>T2tt, T6bbWWoff</td><td>5</td><td>9.40 +/- 3.60</td><td style="text-align:right">-0.9 &sigma;</td><td style="text-align:right">X<sup>1</sup><sub>W</sub>, X<sup>1</sup><sub>Z</sub>, X<sub>t</sub>, X<sup>2</sup><sub>Z</sub></td></tr>
+<tr><td><a href=https://twiki.cern.ch/twiki/bin/view/CMSPublic/PhysicsResultsSUS13011>CMS-SUS-13-011</a></td><td>em</td> <td>HM200</td><td>T2tt</td><td>11</td><td>17.00 +/- 5.00</td><td style="text-align:right">-0.9 &sigma;</td><td style="text-align:right">X<sub>t</sub>, X<sup>2</sup><sub>Z</sub></td></tr>
 <tr><td><a href=http://cms-results.web.cern.ch/cms-results/public-results/publications/SUS-16-033/index.html>CMS-SUS-16-033</a></td><td>em</td> <td>SR11_Njet7_Nb1_ ...</td><td>T2tt</td><td>890</td><td>969.00 +/- 80.00</td><td style="text-align:right">-0.9 &sigma;</td><td style="text-align:right">X<sub>t</sub>, X<sup>2</sup><sub>Z</sub></td></tr>
+<tr><td><a href=https://twiki.cern.ch/twiki/bin/view/CMSPublic/PhysicsResultsSUS13012>CMS-SUS-13-012</a></td><td>em</td> <td>6NJet8_1250HT15 ...</td><td>T2tt, T6bbWWoff</td><td>5</td><td>9.40 +/- 3.60</td><td style="text-align:right">-0.9 &sigma;</td><td style="text-align:right">X<sup>1</sup><sub>W</sub>, X<sup>1</sup><sub>Z</sub>, X<sub>t</sub>, X<sup>2</sup><sub>Z</sub></td></tr>
+<tr><td><a href=https://twiki.cern.ch/twiki/bin/view/CMSPublic/PhysicsResultsSUS13011>CMS-SUS-13-011</a></td><td>em</td> <td>LM250</td><td>T2tt</td><td>21</td><td>31.00 +/- 8.00</td><td style="text-align:right">-1.0 &sigma;</td><td style="text-align:right">X<sub>t</sub>, X<sup>2</sup><sub>Z</sub></td></tr>
+<tr><td><a href=https://twiki.cern.ch/twiki/bin/view/CMSPublic/PhysicsResultsSUS13011>CMS-SUS-13-011</a></td><td>em</td> <td>HM300</td><td>T2tt</td><td>2</td><td>4.70 +/- 1.40</td><td style="text-align:right">-1.0 &sigma;</td><td style="text-align:right">X<sub>t</sub>, X<sup>2</sup><sub>Z</sub></td></tr>
 <tr><td><a href=https://atlas.web.cern.ch/Atlas/GROUPS/PHYSICS/PAPERS/SUSY-2013-04/>ATLAS-SUSY-2013-04</a></td><td>em</td> <td>GtGrid_SR_7ej80 ...</td><td>T2tt</td><td>13</td><td>25.00 +/- 10.00</td><td style="text-align:right">-1.1 &sigma;</td><td style="text-align:right">X<sub>t</sub>, X<sup>2</sup><sub>Z</sub></td></tr>
 <tr><td><a href=https://twiki.cern.ch/twiki/bin/view/CMSPublic/PhysicsResultsSUS13012>CMS-SUS-13-012</a></td><td>em</td> <td>6NJet8_1500HTin ...</td><td>T2tt, T6bbWWoff</td><td>3</td><td>7.90 +/- 3.60</td><td style="text-align:right">-1.1 &sigma;</td><td style="text-align:right">X<sup>1</sup><sub>W</sub>, X<sup>1</sup><sub>Z</sub>, X<sub>t</sub>, X<sup>2</sup><sub>Z</sub></td></tr>
-<tr><td><a href=http://cms-results.web.cern.ch/cms-results/public-results/publications/SUS-19-006/index.html>CMS-SUS-19-006-agg</a></td><td>comb</td> <td>-</td><td>T2tt</td><td> 2 fb </td><td> 2 fb</td><td style="text-align:right">-1.3 &sigma;</td><td style="text-align:right">X<sub>t</sub>, X<sup>2</sup><sub>Z</sub></td></tr>
+<tr><td><a href=https://twiki.cern.ch/twiki/bin/view/CMSPublic/PhysicsResultsSUS13011>CMS-SUS-13-011</a></td><td>em</td> <td>HM250</td><td>T2tt</td><td>3</td><td>9.50 +/- 2.80</td><td style="text-align:right">-1.7 &sigma;</td><td style="text-align:right">X<sub>t</sub>, X<sup>2</sup><sub>Z</sub></td></tr>
+<tr><td><a href=http://cms-results.web.cern.ch/cms-results/public-results/publications/SUS-19-006/index.html>CMS-SUS-19-006-agg</a></td><td>comb</td> <td>-</td><td>T2tt</td><td> 2 fb </td><td> 2 fb</td><td style="text-align:right">-1.9 &sigma;</td><td style="text-align:right">X<sub>t</sub>, X<sup>2</sup><sub>Z</sub></td></tr>
 </table>

diff --git a/protomodels/rundir3atlas_310/index.html b/protomodels/rundir3atlas_310/index.html
@@ -1,24 +1,23 @@
 <html>
 <body>
 <center>
-<table><td><h1>Current best protomodel: <i>K</i>=32.51, <i>TL</i>=39.06</h1><td><img height=60px src=https://smodels.github.io//protomodels/logos/protomodel_lego.png></table>
+<table><td><h1>Current best protomodel: <i>K</i>=None, <i>TL</i>=11.80</h1><td><img height=60px src=https://smodels.github.io//protomodels/logos/protomodel_lego.png></table>
 </center>
 <b><a href=./hiscore.slha>ProtoModel</a> <a href=./pmodel.dict>(dict)</a> produced with <a href=https://smodels.github.io//docs/Validation310>database v3.1.0</a>, combination strategy <a href=./matrix.png>aggressive</a> in walker uphi step 883.</b> <br>
 <table width=80%>
 <tr><td>
-<br><b>Critics:</b> passed both critics<br>
-<br><b>LLHD Critic:</b> CMS-EXO-20-004:combined, ATLAS-EXOT-2018-06:EM8, CMS-SUS-20-004:combined, ATLAS-SUSY-2018-12:SRBTT, ATLAS-SUSY-2016-16:tN_med, CMS-SUS-16-050-agg:combined, ATLAS-SUSY-2018-08:SRDF220:: <span style='color: darkgreen;'>robs=0.98, rexp=3.48</span><br>
-<br><b>30 predictions available. Highest r values are:</b><br><ul>
-<li><a href=https://atlas.web.cern.ch/Atlas/GROUPS/PHYSICS/PAPERS/EXOT-2018-06/>ATLAS-EXOT-2018-06</a>:EM8:TChiISR,TChiZISRqq r=1.49, r<sub>exp</sub>=1.62<br>
-<li><a href=http://cms-results.web.cern.ch/cms-results/public-results/publications/SUS-20-002/index.html>CMS-SUS-20-002</a>:ul:T2tt r=1.33, r<sub>exp</sub>=1.20<br>
-<li><a href=http://cms-results.web.cern.ch/cms-results/public-results/publications/SUS-19-010/index.html>CMS-SUS-19-010</a>:ul:T2tt r=0.98, r<sub>exp</sub>=0.93<br>
-<li><a href=http://cms-results.web.cern.ch/cms-results/public-results/publications/SUS-19-009/index.html>CMS-SUS-19-009</a>:ul:T2tt r=0.83, r<sub>exp</sub>=0.84<br>
+<br><b>Critics:</b> failed UL-based critic (3/7)<br>
+<br><b>No LLHD Critic results!!</b><br><br><b>30 predictions available. Highest r values are:</b><br><ul>
+<li><a href=https://atlas.web.cern.ch/Atlas/GROUPS/PHYSICS/PAPERS/EXOT-2018-06/>ATLAS-EXOT-2018-06</a>:EM8:TChiZISRqq,TChiISR r=2.29, r<sub>exp</sub>=2.48<br>
+<li><a href=http://cms-results.web.cern.ch/cms-results/public-results/publications/SUS-20-002/index.html>CMS-SUS-20-002</a>:ul:T2tt r=2.04, r<sub>exp</sub>=1.85<br>
+<li><a href=http://cms-results.web.cern.ch/cms-results/public-results/publications/SUS-19-010/index.html>CMS-SUS-19-010</a>:ul:T2tt r=1.51, r<sub>exp</sub>=1.42<br>
+<li><a href=http://cms-results.web.cern.ch/cms-results/public-results/publications/SUS-19-009/index.html>CMS-SUS-19-009</a>:ul:T2tt r=1.27, r<sub>exp</sub>=1.28<br>
 </ul>
-<td><img width=600px src=./texdoc.png?1764240859>
-<br><span style='font-size: smaller; color: darkred;'>Last updated: Thu Nov 27 11:54:19 2025</span>
+<td><img width=600px src=./texdoc.png?1764242703>
+<br><span style='font-size: smaller; color: darkred;'>Last updated: Thu Nov 27 12:25:03 2025</span>
 </table><table style="width:80%">
-<td width=45%><img height=580px src=./ruler.png?1764240859><td width=55%><img height=220px src=./decays.png?1764240859>
-<font size=-3><iframe type="text/html" height="350px" width="100%" frameborder="0" src="./rawnumbers.html?1764240859"></iframe></font>
+<td width=45%><img height=580px src=./ruler.png?1764242703><td width=55%><img height=220px src=./decays.png?1764242703>
+<font size=-3><iframe type="text/html" height="350px" width="100%" frameborder="0" src="./rawnumbers.html?1764242703"></iframe></font>
 </table>
 </body>
 </html>
